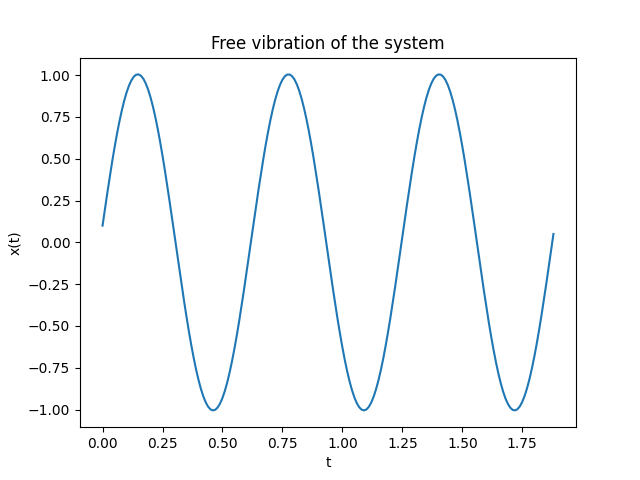
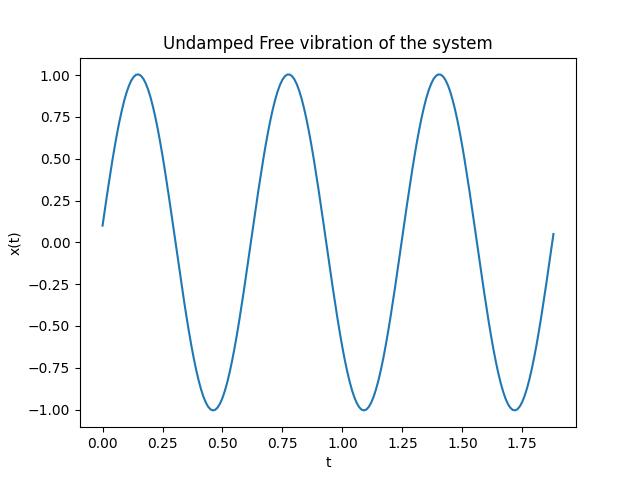
Assignment-1 Complete

Changed region(s): [[0.25, 0.0625, 0.7812, 0.125]]

diff --git a/Assignment_1/Part_b.py b/Assignment_1/Part_b.py
@@ -1,0 +1,53 @@
+import numpy as np
+import math
+
+m = 10
+k = 1000
+W_n = math.sqrt(k/m)
+T_n = (2*math.pi)/W_n
+C_cr = 2*math.sqrt(k*m)
+
+t = np.arange(0, 3.5*T_n, 0.01)
+
+X_ud = []
+X_od = []
+X_cr = []
+
+# For Under-damped condition
+c = 60
+ξ = c/C_cr
+W_d = W_n*math.sqrt(1 - (ξ*ξ))
+
+for i in t:
+    value = 0.1*math.exp(-(c*i)/(2*m))*math.cos(W_d*i) + 1.08*math.exp(-(c*i)/(2*m))*math.sin(W_d*i)
+    
+    X_ud.append(value/0.1)
+
+# For Over-damped condition
+c = 450
+ξ = c/C_cr
+r1 = W_n*(-ξ + math.sqrt((ξ*ξ) - 1))
+r2 = W_n*(-ξ - math.sqrt((ξ*ξ) - 1))
+
+for i in t:
+    value = 0.35*math.exp(r1*i) - 0.25*math.exp(r2*i)
+    X_od.append(value/0.1)
+
+# For Critical condition
+c= C_cr
+ξ = c/C_cr
+
+for i in t:
+    value = math.exp(-W_n*i)*(0.1 + 11*i)
+    X_cr.append(value/0.1)    
+
+import matplotlib.pyplot as plt
+plt.plot(t/T_n, X_ud, color = 'grey', label = 'Under-damped, ξ = 0.3')
+plt.plot(t/T_n, X_od, color = 'yellow', label = 'Over-damped, ξ = 2.25')
+plt.plot(t/T_n, X_cr, color = 'blue', label = 'Critical-damped, ξ = 1')
+plt.legend()
+plt.title("Undamped Free vibration of the system")
+plt.xlabel("t/Tn")
+plt.ylabel("x(t)/x(0)")
+plt.savefig("Part_2_Plot")
+plt.show()

diff --git a/Assignment_1/Part_a.py b/Assignment_1/Part_a.py
@@ -18,7 +18,7 @@ for i in t:
     
 import matplotlib.pyplot as plt
 plt.plot(t, X)
-plt.title("Free vibration of the system")
+plt.title("Undamped Free vibration of the system")
 plt.xlabel("t")
 plt.ylabel("x(t)")
 plt.savefig("Part_1_Plot")

diff --git a/Assignment_1/Question.md b/Assignment_1/Question.md
@@ -12,7 +12,7 @@ $\hat{x}$(0) = 10 m/s
 
 # Solution of part - 1
 ```math
-x(t) = x(0)cos(w_nt) + (\hat{x}(0)\w_n)sin(w_nt)
+x(t) = x(0)cos(w_nt) + (\hat{x}(0) \div w_n)sin(w_nt)
 ```
 where,
 
@@ -20,9 +20,106 @@ where,
 w_n = \sqrt{k/m}
 ```
 
+$w_n$ = 10 $s^{-1}$
+
 ![plot](./Part_1_Plot.png)
 
 
 Calculation and plotting is done in Part_a.py file.
 
+# Solution of Part - 2
 
+$c_{cr}$ = $2\sqrt{km}$
+
+in this question, \
+<b> $c_{cr}$ = 200 Nm/s </b> \
+<b> $w_n$ = 10 $s^{-1}$ </b>
+
+1. <b>For Under-damped condition:-</b>
+
+c < $c_{cr}$ \
+Let take c = 60 Nm/s
+
+The equation is,
+
+```math
+x(t) = c_1e^{-ct/2m}cos(w_dt) + c_2e^{-ct/2m}sin(w_dt)
+```
+where, 
+
+```math
+w_d = w_n\sqrt{1-ξ^2}
+```
+```math
+ξ = c / c_{cr}
+```
+
+Now,  
+ξ = 0.3 \
+w_d = 9.54 $s^{-1}$
+
+x(0) = $c_1$ = 0.1 \
+$\hat{x}$(0) = 10 \
+so,  
+$c_2$ = 1.08
+
+
+2. <b>For Over damped condition:- </b>
+
+c > $c_{cr}$ \
+Let take c = 450 Nm/s
+
+The equation is,
+
+```math
+x(t) = c_1e^{r_1t} + c_2e^{r_2t}
+```
+where, 
+
+```math
+r_1 = w_n(-ξ + \sqrt{ξ^2 - 1}) 
+```
+```math
+r_2 = w_n(-ξ - \sqrt{ξ^2 - 1})
+```
+```math
+ξ = c / c_{cr}
+```
+
+Now,  
+ξ = 2.25  
+$r_1$ = -2.34  
+$r_2$ = -42.65
+
+x(0) = 0.1  
+$\hat{x}$(0) = 10
+
+Solving above two equation gives,  
+$c_1$ = 0.35  
+$c_2$ = -0.25
+
+3. <b>For Critical condition:- </b>
+
+c = $c_{cr}$ \
+ξ = 1  
+So, c = 200 Nm/s
+
+The equation is,
+
+```math
+x(t) = e^{-w_nt}(c_1 + c_2t)
+```
+
+Now,  
+ξ = 1
+
+x(0) = 0.1  
+$\hat{x}$(0) = 10
+
+Solving above two equation gives,  
+$c_1$ = 0.1  
+$c_2$ = 11
+
+![plot](./Part_2_Plot.png)
+
+Calculation and plotting is done in Part_b.py
